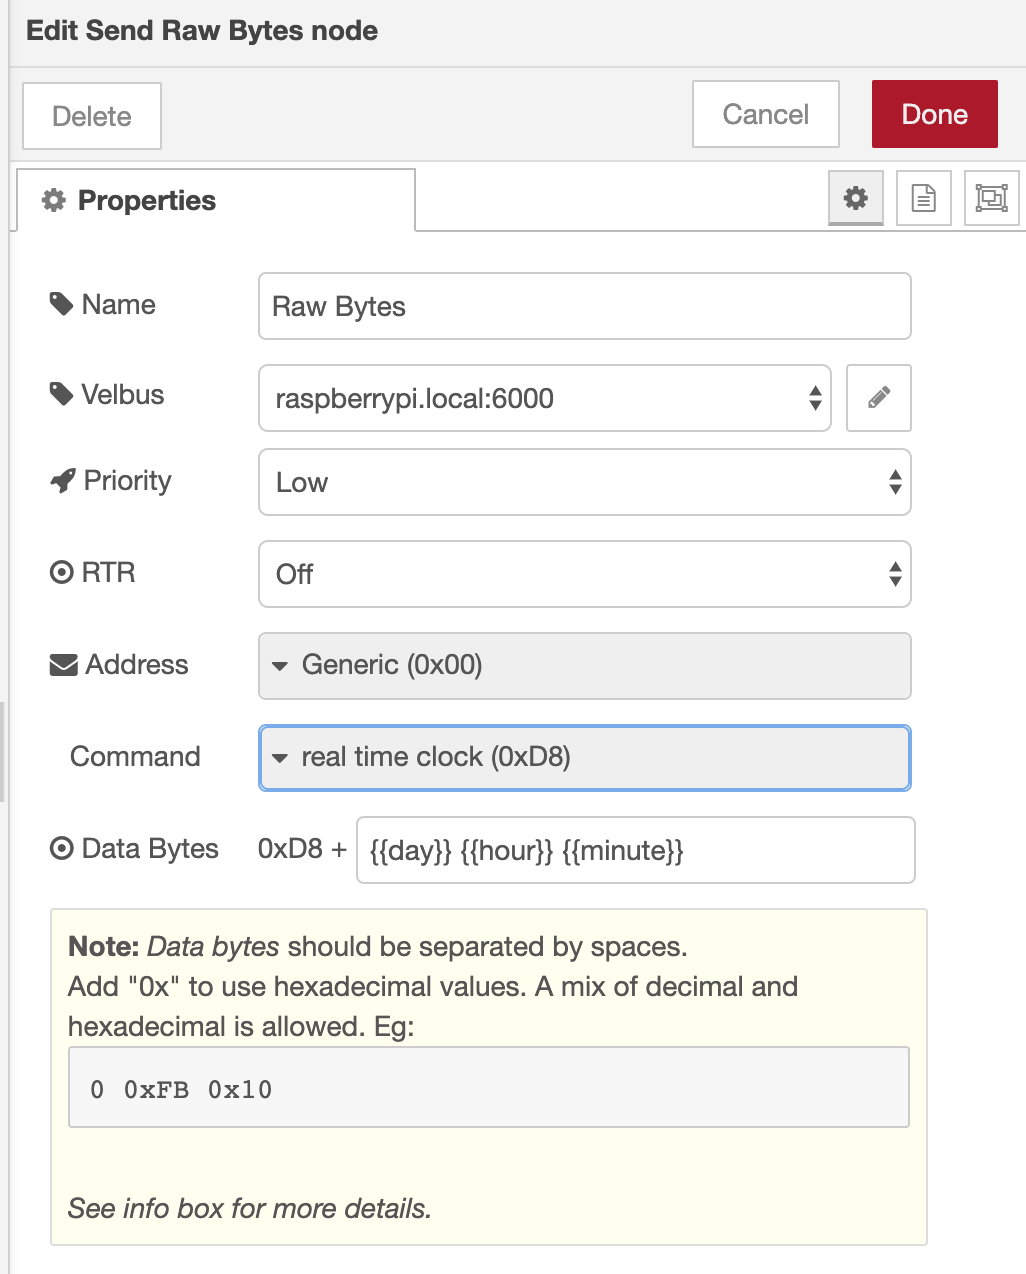
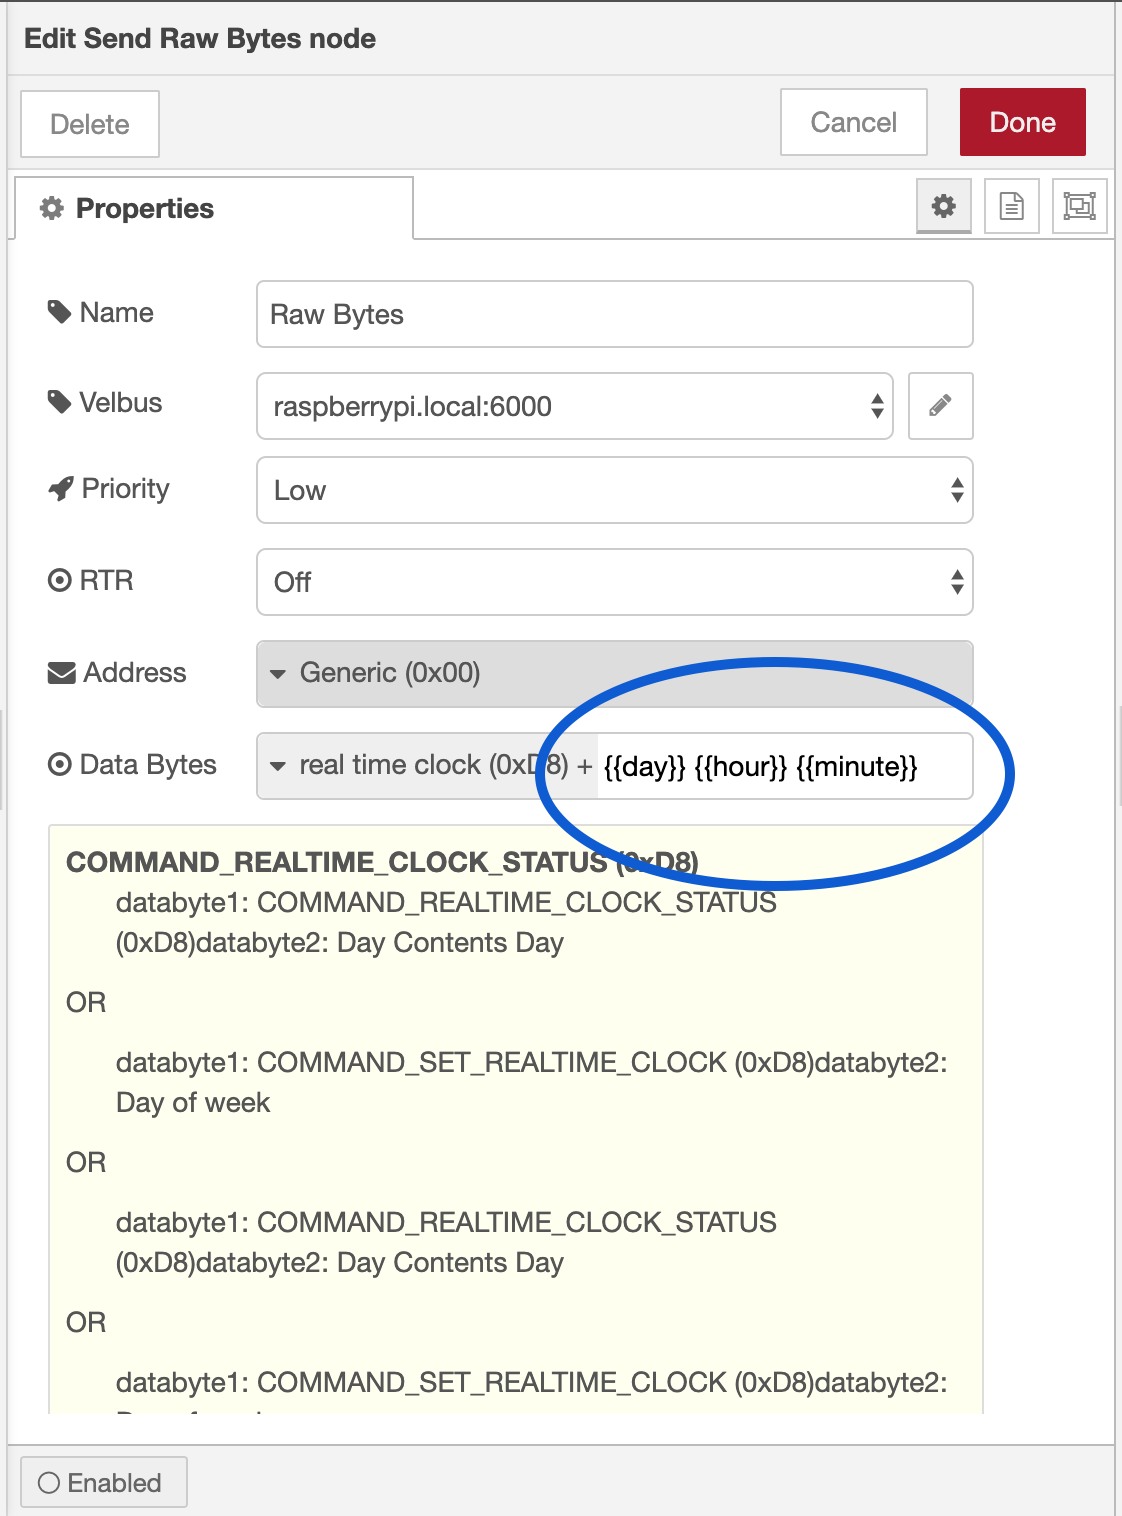
Readme, UX fixes, small stuff

diff --git a/node-red/velbus-send-raw-bytes.html b/node-red/velbus-send-raw-bytes.html
@@ -52,9 +52,9 @@
 	</div>
 
 	<!--<div class="form-row">-->
-		<!--<label for="node-input-dataBytes"><i class="fa fa-dot-circle-o"></i> Data Bytes</label>-->
-		<!--<span class="first-byte"></span><span> + </span>-->
-		<!--<input type="text" id="node-input-dataBytes" value="0x01" style="width: 60%">-->
+	<!--<label for="node-input-dataBytes"><i class="fa fa-dot-circle-o"></i> Data Bytes</label>-->
+	<!--<span class="first-byte"></span><span> + </span>-->
+	<!--<input type="text" id="node-input-dataBytes" value="0x01" style="width: 60%">-->
 	<!--</div>-->
 	<p>&nbsp;</p>
 	<div class="form-tips">
@@ -62,8 +62,8 @@
 		Add "0x" to use hexadecimal values. A mix of decimal and hexadecimal is allowed. Eg:
 		<pre>0 0xFB 0x10</pre>
 		<br>
-		<i>See info box and <a href="https://flows.nodered.org/node/node-red-contrib-velbus" target="_blank">Readme</a> for more details about Data Bytes.</i><br>
-		<i>Find the data byte info for all commands <a href="https://github.com/velbus/moduleprotocol" target="_blank">at the Github page of Velbus</a>.</i>
+		<i>See info box and <a href="https://flows.nodered.org/node/node-red-contrib-velbus" target="_blank">Readme</a>
+			for more details about Data Bytes.</i><br>
 	</div>
 
 
@@ -78,7 +78,7 @@
 		defaults: {
 			name: {value: "Send Raw Bytes", required: false},
 			connector: {value: "", type: "velbus-connector"},
-			dataBytes: {value: 0xEE},
+			dataBytes: {value: 0x02},
 			dataBytesType: {value: 0xEE}, //the type is the choosen item in the dropdown
 			address: {value: 0x00},
 			addressType: {value: 0x00}, //the type is the choosen item in the dropdown
@@ -107,17 +107,17 @@
 					value: "MANUAL",
 					label: "Manual input",
 				});
-				commands.splice(0, 0,{
+				commands.splice(0, 0, {
 					value: "DATABYTES",
 					hasValue: false,
 					label: `Data bytes from msg.dataBytes`
 				});
-				commands.splice(0, 0,{
+				commands.splice(0, 0, {
 					value: "TOPIC+PAYLOAD",
 					hasValue: false,
 					label: `Data bytes from msg.topic + msg.payload`
 				});
-				commands.splice(0, 0,{
+				commands.splice(0, 0, {
 					value: "PAYLOAD",
 					hasValue: false,
 					label: `Data bytes from msg.payload`
@@ -127,9 +127,9 @@
 				$("#node-input-dataBytes").typedInput({
 					typeField: $("#node-input-dataBytesType"),
 					types: commands
-				}).on('change', function(type, value) {
+				}).on('change', function (type, value) {
 					setCommandInfo(commandInfoArray);
-				} );
+				});
 
 				//fix width of input
 				$(".red-ui-typedInput-input").width("96%");
@@ -204,21 +204,39 @@
 			let commandsFound = commandInfoArray.filter(i => i.id === parseInt($("#node-input-dataBytesType").val()));
 			if (commandsFound && commandsFound.length > 0) {
 				$("#command-info-title").text(commandsFound[0].name);
-				li = "";
+				html = "";
 				commandsFound.forEach((command, index) => {
 					if (index > 0) {
-						li += "<p>OR</p>";
+						html += "<p>OR</p>";
 					}
-					li += "<ol>";
+					html += "<ol>";
 					Object.keys(command).forEach(key => {
 						if (key.indexOf("databyte") > -1) {
-							li += `<li>${key}: ${command[key]}</li>`;
+							html += `<li>${key}: ${command[key]}</li>`;
 						}
 					});
-					li += "</ol>"
+					html += "</ol>";
 
 				});
-				$("#command-info-body").html(li);
+				html += "<p><i>This info is a semi-auto-generated, incomplete list, parsed from Velbus PDFs and might have inaccurate data. " +
+						"<a href='https://forum.velbus.eu/t/we-need-a-structured-list-of-all-messages-and-commands/' target='_blank'>More info</a></i></p>"
+				html += "<p><i>More details info for all commands <a href=\"https://github.com/velbus/moduleprotocol\" target=\"_blank\">at the Github page of Velbus</a>.</i></p>"
+				$("#command-info-body").html(html);
+			} else if ($("#node-input-dataBytesType").val() === "MANUAL") {
+				$("#command-info-title").text("Manual input");
+				$("#command-info-body").html(
+						`You can use mustache formatting. See example in the
+						<a href="https://flows.nodered.org/node/node-red-contrib-velbus" target="_blank">Readme</a>.
+				`);
+			} else if ($("#node-input-dataBytesType").val() === "DATABYTES") {
+				$("#command-info-title").text("DataBytes ");
+				$("#command-info-body").html(`Data bytes from msg.dataBytes`);
+			} else if ($("#node-input-dataBytesType").val() === "TOPIC+PAYLOAD") {
+				$("#command-info-title").text("Topic + Payload");
+				$("#command-info-body").html(`Data bytes from msg.topic + msg.payload`);
+			} else if ($("#node-input-dataBytesType").val() === "PAYLOAD") {
+				$("#command-info-title").text("Payload");
+				$("#command-info-body").html(`Data bytes from msg.payload`);
 			}
 		}
 	}
@@ -245,7 +263,8 @@
 	<ul>
 		<li>Switch on a relay.</li>
 		<li>Dim a light to 50% over 1 minute.</li>
-		<li>Periodically send the date and time to your Velbus setup. I had to do this because the clock shifts over time.</li>
+		<li>Periodically send the date and time to your Velbus setup. I had to do this because the clock shifts over
+		time.</li>
 		<li>Send a memo text to the OLED display of your VMBELO Edge-lit touch panel.</li>
 		<li>Request the temperature of a sensor.</li>
 	</ul>
@@ -253,7 +272,8 @@
 
 	<h3>Setup</h3>
 	<p>These Velbus nodes require a connection to a Velbus TCP server.
-		Eg: <a href="https://github.com/jeroends/velserv" target="_blank">This one</a> by Jeroends runs like a charm on a Raspberry Pi.</p>
+		Eg: <a href="https://github.com/jeroends/velserv" target="_blank">This one</a> by Jeroends runs like a charm on
+		a Raspberry Pi.</p>
 
 	<h3>Properties</h3>
 	<dl class="message-properties">
@@ -261,37 +281,27 @@
 		<dd>Connection with the Velbus TCP server.</dd>
 
 		<dt>Priority <span class="property-type">Number</span></dt>
-		<dd>High or Low</dd>
+		<dd>High, Low, input coming from msg.payload.priority or from msg.priority</dd>
 
 		<dt>RTR <span class="property-type">Boolean</span></dt>
-		<dd>True or False</dd>
+		<dd>True, False, or input coming from msg.payload.rtr or msg.rtr</dd>
 
 		<dt>Addres <span class="property-type">Number</span></dt>
-		<dd>Choose an address from the list. These are the modules found on your setup that have one or more push buttons. <br>
-			For generic Commands on the bus, choose <code>Generic (0x00)</code>.
-			If your module is, for some reason, not listed, you can add a channel manually.</dd>
-
-		<dt>Command <span class="property-type">Number</span></dt>
-		<dd>Choose a command from the list. If the command is not listed, you can add a command byte manually.</dd>
+		<dd>Choose an address from the list. These are the modules found on your setup that have one or more push
+			buttons. <br>
+			For generic Commands on the bus, choose <code>Generic (0x00)</code>.<br>
+			If your module is, for some reason, not listed, you can add a channel manually.
+			You can also get the input from msg.address or msg.payload.address
+		</dd>
 
 		<dt>Data Bytes <span class="property-type">String</span></dt>
 		<dd><p>A space separated list of numbers.</p>
-			<p>You don't have to add the first command byte anymore as it will be added for you from the Command property.<br>
-			You can add decimal numbers or hexadecimal numbers (using the 0x notation).</p>
+			<p>You can add decimal numbers or hexadecimal numbers (using the 0x notation).</p>
 			<p><b>Dynamic data bytes</b>
-			You can feed the data bytes with dynamic data by using JSON keys in the input node and Mustache syntax in the
-				Data Bytes input:<br>
-				E.g.:</p>
-			<ul>
-				<li>To send the current day and time, use the command COMMAND_REAL_TIME_CLOCK and this string for the data
-					bytes:
-					<code>{{day}} {{hour}} {{minute}}</code>
-				<li>
-					The input message payload of type JSON should be:
-					<code>{"day":1,"hour":7,"minute":45}</code><br>
-					Of course you can make this date dynamic by using a Function node. See example in the
-					<a href="https://flows.nodered.org/node/node-red-contrib-velbus" target="_blank">Readme</a>.
-				</li>
+				Several options are possible:<br>
+				You can feed the data bytes with dynamic data by using topic + payload data, or by using JSON keys in the input node and Mustache syntax
+				in the Data Bytes input:<br>
+				See example in the <a href="https://flows.nodered.org/node/node-red-contrib-velbus" target="_blank">Readme</a>.
 			</ul>
 		</dd>
 
@@ -301,20 +311,26 @@
 
 	<h3>Inputs</h3>
 	<p>You can trigger this node by injecting a message payload. <br>
-		Any payload will do, but if you want to send dynamic data, use the JSON format as shown above.
+		Any payload will do, but if you want to send dynamic data, use one of the different options for Data Bytes.
 	</p>
 
 	<h3>FAQ</h3>
 	<ol>
-		<li><b>My Velbus module is not shown in the Address list!</b> You can add your module to this list by updating the
-			file <code>~/.node-red/node_modules/node-red-contrib-velbus/velbus/const.js</code>. <br>
-			Restart Node-red and your module should be found in the list of addresses! Please let me know these kind of errors so I can update my code.
+		<li><b>My Velbus module is not shown in the Address list!</b> You can add your module to this list by updating
+		the file <code>~/.node-red/node_modules/node-red-contrib-velbus/velbus/const.js</code>. <br>
+		Restart Node-red and your module should be found in the list of addresses! Please let me know these kind of
+		errors so I can update my code.
 		</li>
+		<li>The yellow info panel provides some more info about the currently selected command.</li>
 	</ol>
 
 	<h3>References</h3>
 	<ul>
-		<li>Use <a href="https://github.com/gertst/node-red-contrib-velbus" target="_blank">the projects github repository</a> to check issues and post solutions/requests here.</li>
-		<li><a href="https://twitter.com/GertStalpaert" target="_blank">Contact me on Twitter</a> if you want to share a word about your own setup. ;-)</li>
+		<li>Use <a href="https://github.com/gertst/node-red-contrib-velbus" target="_blank">the projects github
+			repository</a> to check issues and post solutions/requests here.
+		</li>
+		<li><a href="https://twitter.com/GertStalpaert" target="_blank">Contact me on Twitter</a> if you want to share
+		a word about your own setup. ;-)
+		</li>
 	</ul>
 </script>

diff --git a/node-red/velbus-receive-raw-bytes.html b/node-red/velbus-receive-raw-bytes.html
@@ -139,10 +139,10 @@
 	<p>This node connects to any Velbus module it can find on your setup. It can receive any event.</p>
 	<p>Some examples:</p>
 	<ul>
-		<li>Receive the temperature of a sensor</li>
-		<li>Receive the state of a Dimmer.</li>
-		<li>Receive the state of a Relay.</li>
-		<li>Get the led color of an edge-lit touch panel.</li>
+		<html>Receive the temperature of a sensor</html>
+		<html>Receive the state of a Dimmer.</html>
+		<html>Receive the state of a Relay.</html>
+		<html>Get the led color of an edge-lit touch panel.</html>
 	</ul>
 	<p>Typically, you first have to send a request command (Eg. by using the Set Raw Bytes node) to get these kind of messages.</p>
 
@@ -173,24 +173,24 @@
 	<h3>Outputs</h3>
 	<p>The message payload contains a JSON with these properties: </p>
 	<ul>
-	<li>channel: as decimal number - to have the hex notation, use <code>channel.toString(16)</code></li>
-	<li>command: as decimal number - to have the hex notation, use <code>command.toString(16)</code></li>
-	<li>commandName: as string</li>
-	<li>dataBytesArray: all data bytes as an array of decimal numbers</li>
-	<li>rawBytesArray: the entire Packet as an array of decimal numbers</li>
+	<html>channel: as decimal number - to have the hex notation, use <code>channel.toString(16)</code></html>
+	<html>command: as decimal number - to have the hex notation, use <code>command.toString(16)</code></html>
+	<html>commandName: as string</html>
+	<html>dataBytesArray: all data bytes as an array of decimal numbers</html>
+	<html>rawBytesArray: the entire Packet as an array of decimal numbers</html>
 	</ul>
 
 	<h3>FAQ</h3>
 	<ol>
-		<li><b>My Velbus module is not shown in the Address list!</b> You can add your module to this list by updating the
+		<html><b>My Velbus module is not shown in the Address list!</b> You can add your module to this list by updating the
 			file <code>~/.node-red/node_modules/node-red-contrib-velbus/velbus/const.js</code>. <br>
 			Restart Node-red and your module should be found in the list of addresses! Please let me know these kind of errors so I can update my code.
-		</li>
+		</html>
 	</ol>
 
 	<h3>References</h3>
 	<ul>
-		<li>Use <a href="https://github.com/gertst/node-red-contrib-velbus" target="_blank">the projects github repository</a> to check issues and post solutions/requests here.</li>
-		<li><a href="https://twitter.com/GertStalpaert" target="_blank">Contact me on Twitter</a> if you want to share a word about your own setup. ;-)</li>
+		<html>Use <a href="https://github.com/gertst/node-red-contrib-velbus" target="_blank">the projects github repository</a> to check issues and post solutions/requests here.</html>
+		<html><a href="https://twitter.com/GertStalpaert" target="_blank">Contact me on Twitter</a> if you want to share a word about your own setup. ;-)</html>
 	</ul
 </script>

diff --git a/node-red/velbus-send-raw-bytes.js b/node-red/velbus-send-raw-bytes.js
@@ -1,6 +1,7 @@
 let constants = require('../velbus/const');
 let commandInfo = require('../velbus/commandInfo');
 let Packet = require('../velbus/packet');
+let mustache = require("mustache");
 
 module.exports = function (RED) {
 	"use strict";
@@ -124,6 +125,8 @@ module.exports = function (RED) {
 				dataBytesString = this.dataBytesType + " " + this.dataBytes;
 			}
 			//console.log("dataBytesString: " + dataBytesString);
+
+			dataBytesString = mustache.render(dataBytesString, msg.payload); //parse mustache tags
 
 			packet.setDataBytes(this.stringToArray(dataBytesString));
 			//console.log(`send: ${packet.toString()}`);

diff --git a/README.md b/README.md
@@ -55,7 +55,9 @@ __If you are using this module, please let me know! Curious about your findings/
    - Bugfix: in some circumstances modules were found twice. Thanks Ggaljoen to notify me.
    - Added an example of a Send Raw Bytes node
 -2020/04/12
-   - Fix with of typed input fields.   
+   - Fix width of typed input fields.
+   - BREAKING: New UX for the Send Raw Bytes node 
+   - 1st step to have more info available for each command  
 		
 ## Implemented Velbus modules:
 
@@ -84,7 +86,8 @@ Next modules can be controlled by simulating button presses.
 	![Function node details](/readme-assets/send-raw-bytes-example-function-node-details.png)
 	- Adding the Send Raw Bytes details:
 	![Nodes](/readme-assets/send-raw-bytes-example-edit-panel.png)
-
+	- Copy nodes from here:
+	``[{"id":"610806f.e6af4f8","type":"function","z":"be32b5b5.08f898","name":"inject Date","func":"//get the ’date from the payload of the input message\nlet d = new Date(msg.payload);\n\n/*\nThis is how Velbus expects the day values:\nH’00’ Monday\nH’01’ Tuesday\nH’02’ Wednesday\nH’03’ Thursday\nH’04’ Friday\nH’05’ Saterday\nH’06’ Sunday\n*/\n\n/*\nBut the standard Date.getDay() function has the American notation,\nso we have to convert it first:\n*/\n//substract a day to go from Sunday as first day to Monday\nlet day = d.getDay() - 1;\n//if we have Sunday, correct it to 6\nif (day === -1) day = 6;\n\n\n// create a new payload, with the 3 keys\n// we need: day, hour and minute\nlet payload = {\n    day: day, \n    hour: d.getHours(), \n    minute: d.getMinutes()\n}\n\n//replace the old payload with our new one\nmsg.payload = payload;\n\n//return the message\nreturn msg;","outputs":1,"noerr":0,"x":350,"y":140,"wires":[["953ad491.928dc8"]]},{"id":"739d47ca.297f48","type":"inject","z":"be32b5b5.08f898","name":"each day at 6","topic":"","payload":"","payloadType":"date","repeat":"","crontab":"00 06 * * *","once":false,"onceDelay":0.1,"x":120,"y":200,"wires":[["610806f.e6af4f8"]]},{"id":"57c66aa9.d3ef54","type":"inject","z":"be32b5b5.08f898","name":"","topic":"","payload":"","payloadType":"date","repeat":"","crontab":"","once":false,"onceDelay":0.1,"x":100,"y":140,"wires":[["610806f.e6af4f8"]]},{"id":"953ad491.928dc8","type":"velbus-send-raw-bytes","z":"be32b5b5.08f898","name":"Raw Bytes","connector":"c152af36.a02ea","dataBytes":"{{day}} {{hour}} {{minute}}","dataBytesType":"216","address":"","addressType":"0","priority":"251","rtr":"0","x":540,"y":140,"wires":[]},{"id":"c152af36.a02ea","type":"velbus-connector","z":"","ip":"raspberrypi.local","port":"6000"}]``
 - Check [this Velbus Forum thread](https://forum.velbus.eu/t/node-red-integration/15632) for updated examples soon.
  
 ## Contact
